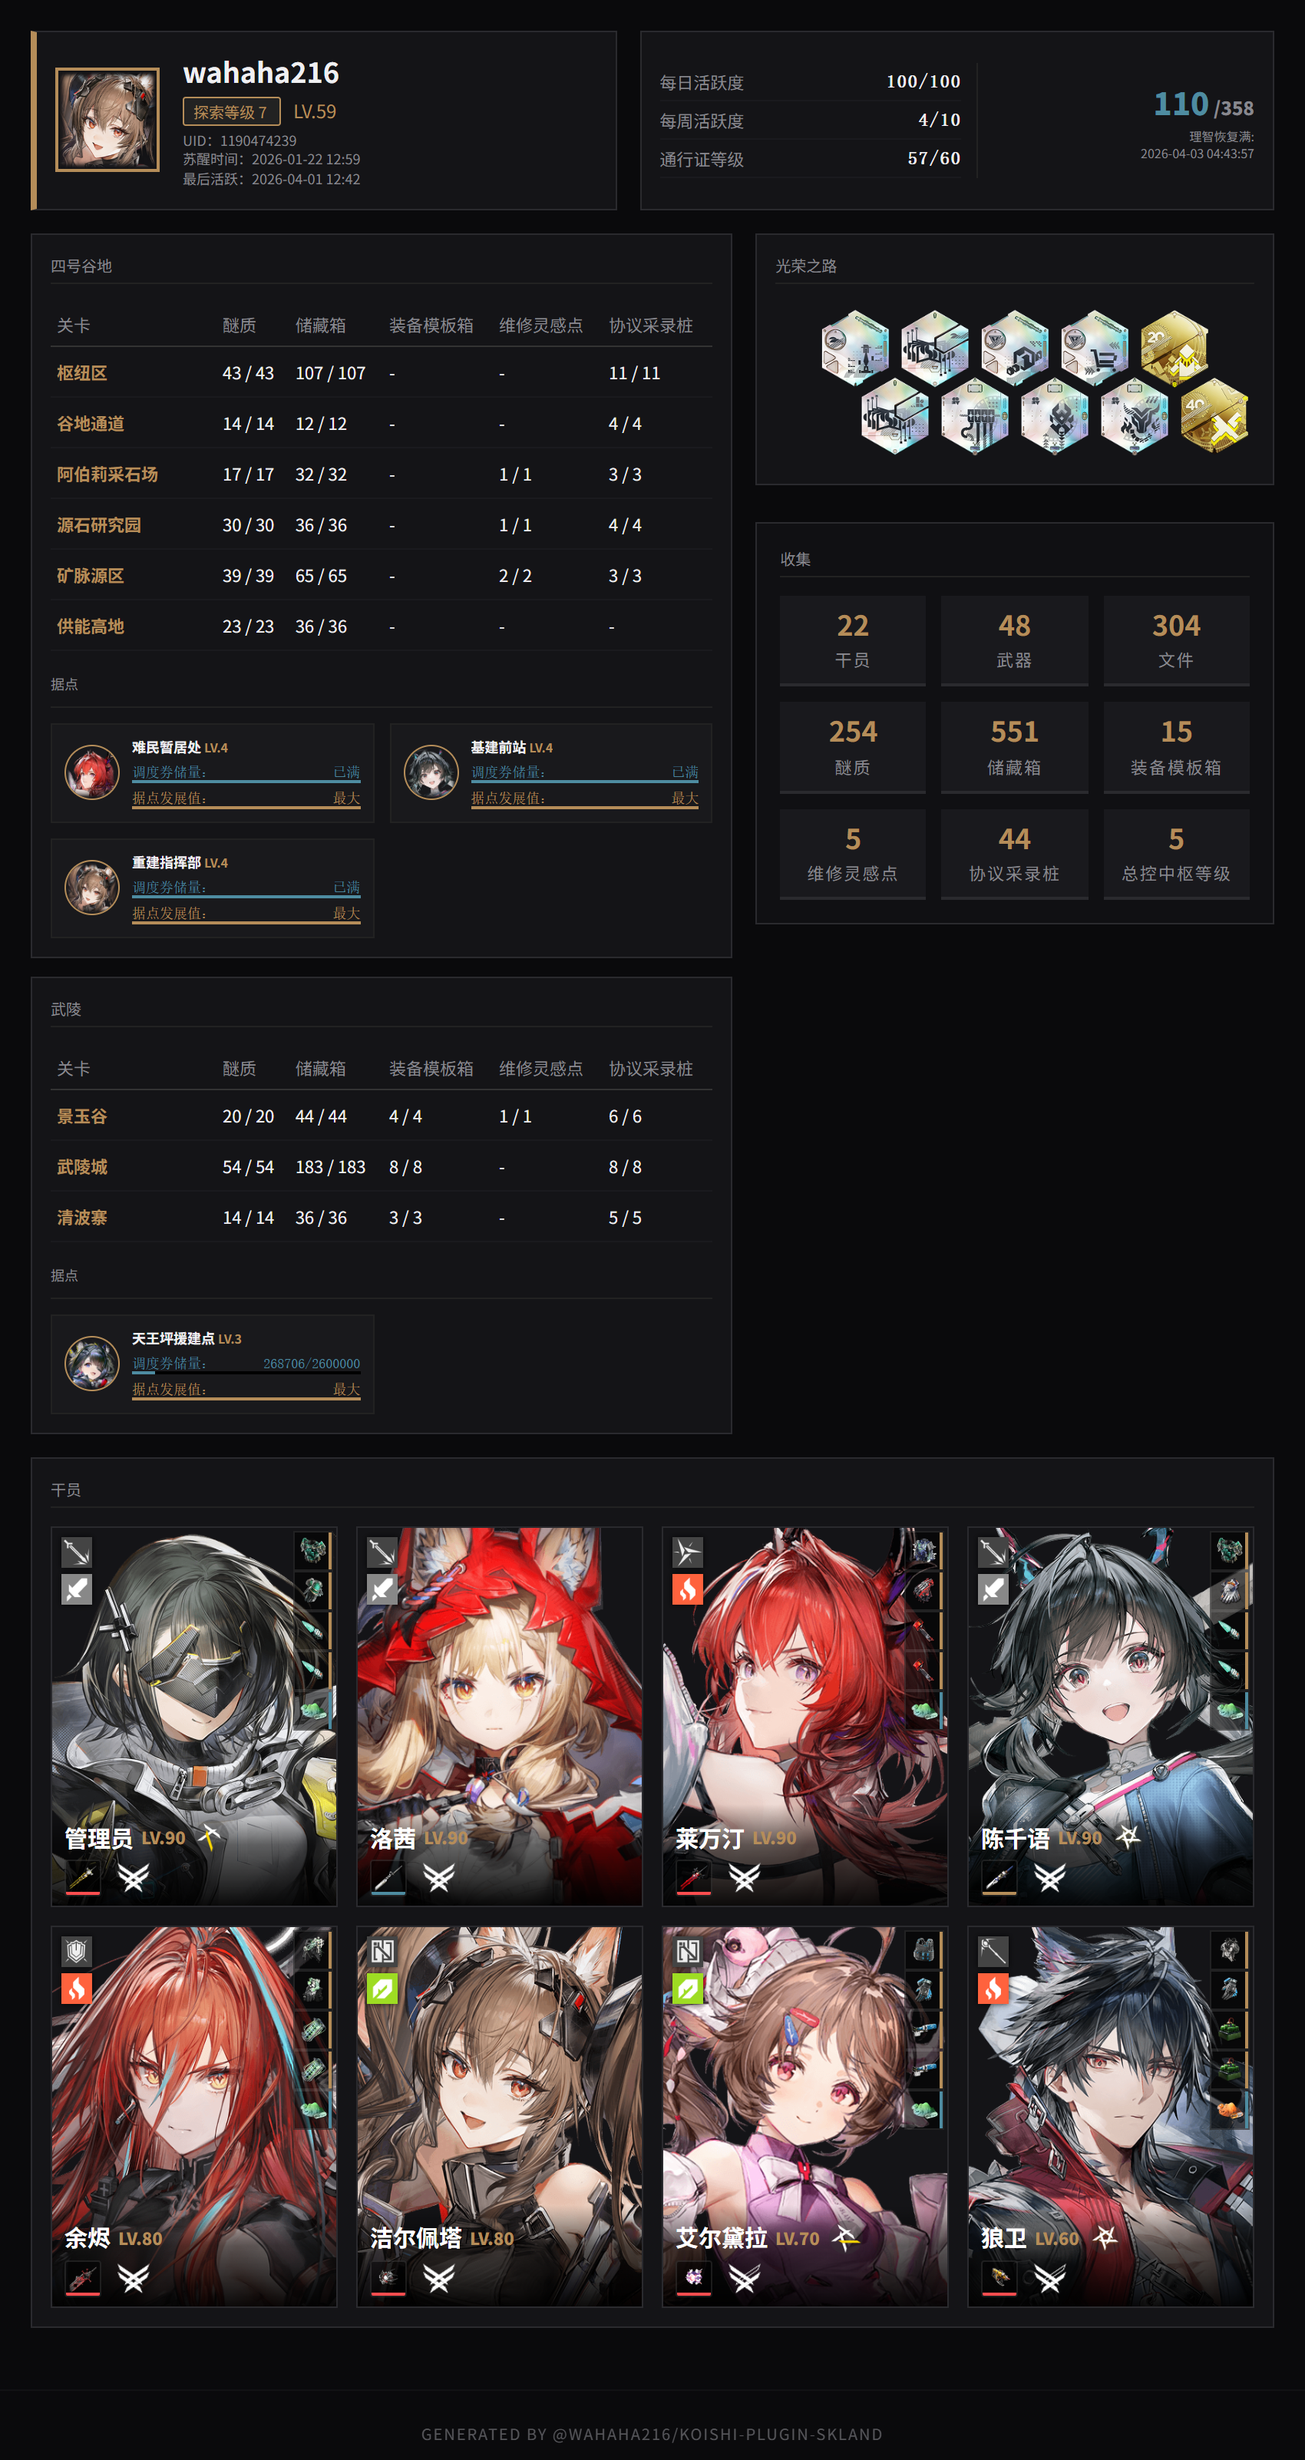
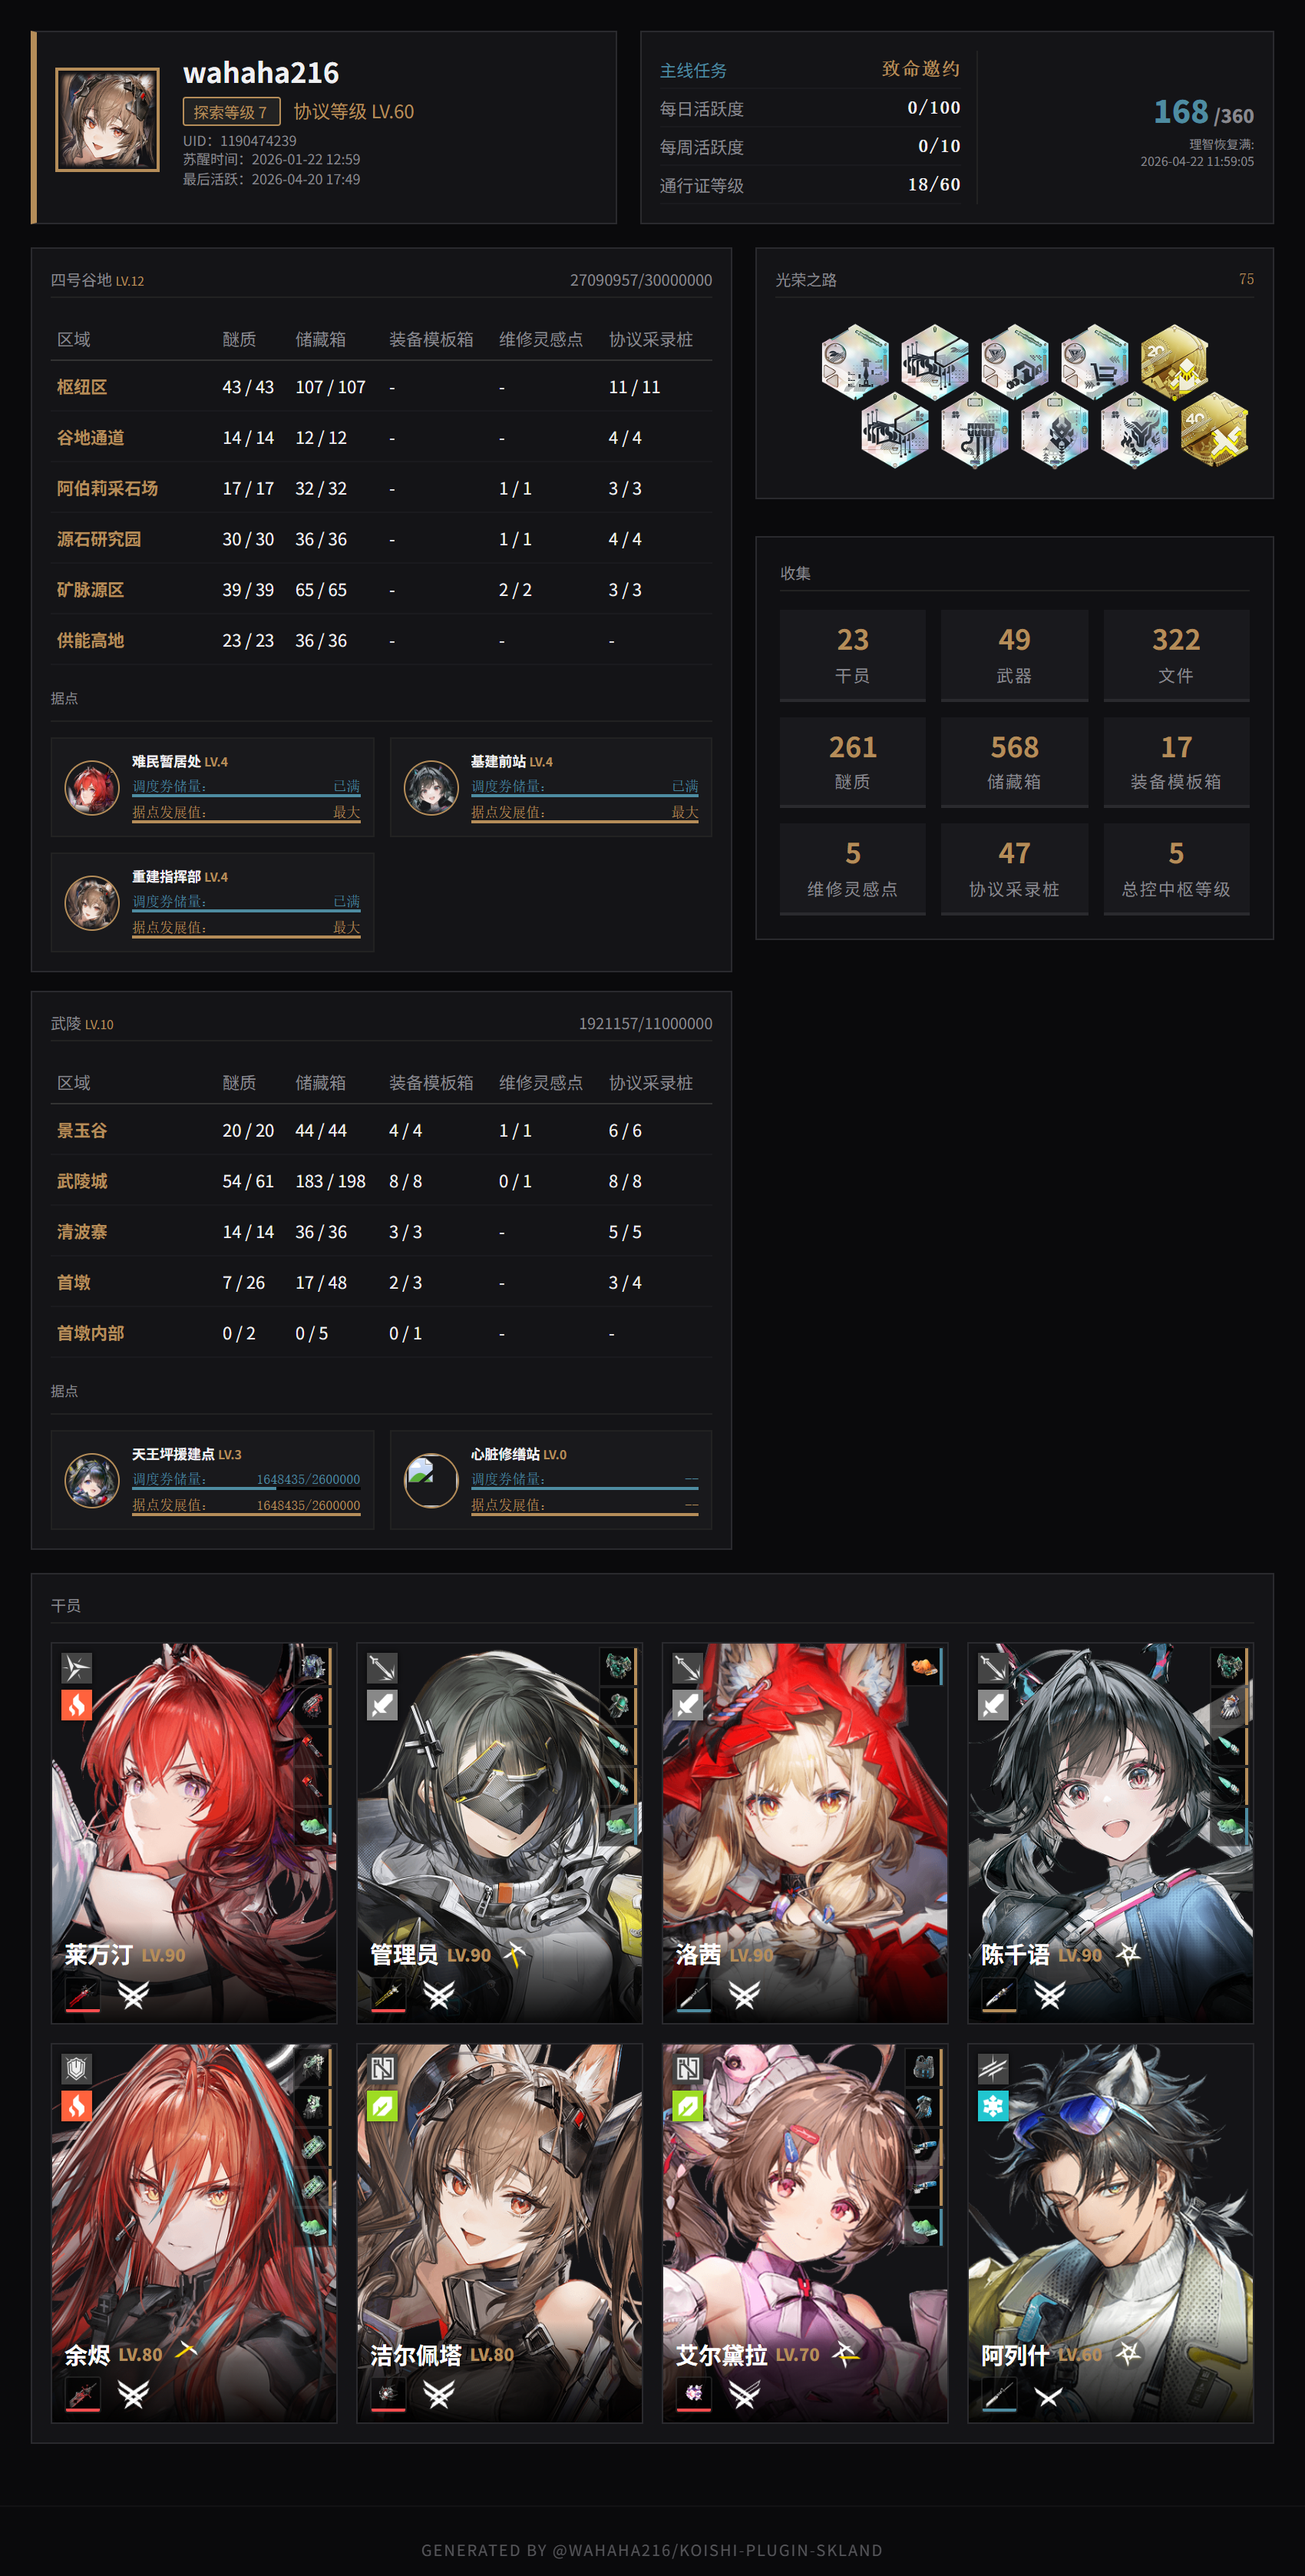
适配未解锁据点

diff --git a/src/html/endfieldCard.html b/src/html/endfieldCard.html
@@ -730,7 +730,7 @@
                   <div style="font-family: monospace" class="settlement-money">
                     <div class="label">调度券储量：</div>
                     <div class="amount">
-                      {{#if (eq remainMoney moneyMax)}} 已满 {{else}}
+                      {{#if (eq level 0)}} -- {{else if (eq remainMoney moneyMax)}} 已满 {{else}}
                       {{remainMoney}}/{{moneyMax}} {{/if}}
                     </div>
                   </div>
@@ -740,7 +740,7 @@
                   <div style="font-family: monospace" class="settlement-exp">
                     <div class="label">据点发展值：</div>
                     <div class="amount">
-                      {{#if (eq expToLevelUp "0")}} 最大
+                      {{#if (eq level 0)}} -- {{else if (eq expToLevelUp "0")}} 最大
                       {{else}}{{remainMoney}}/{{moneyMax}}{{/if}}
                     </div>
                   </div>
